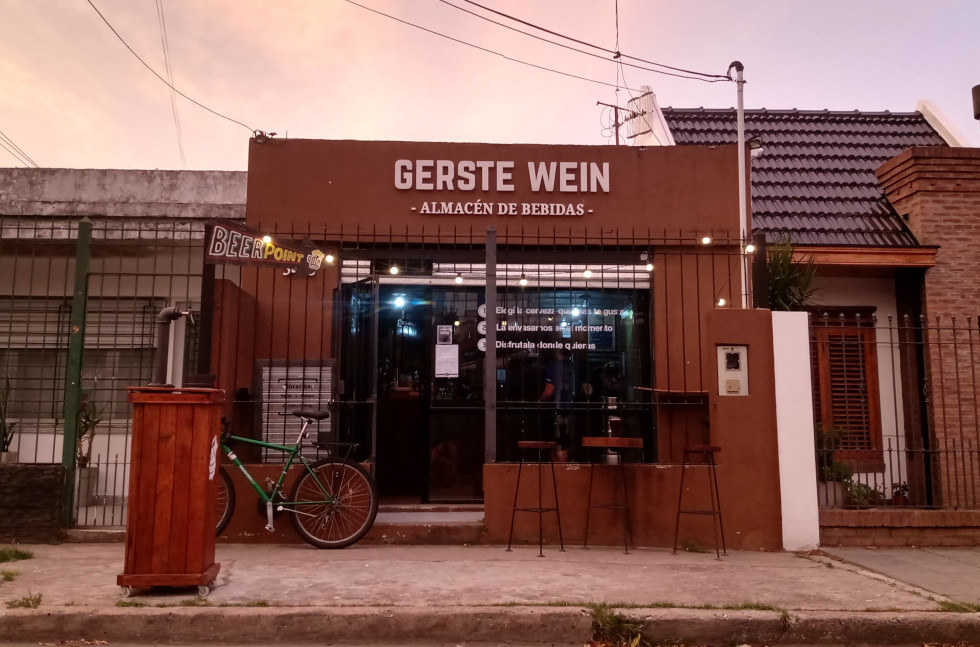
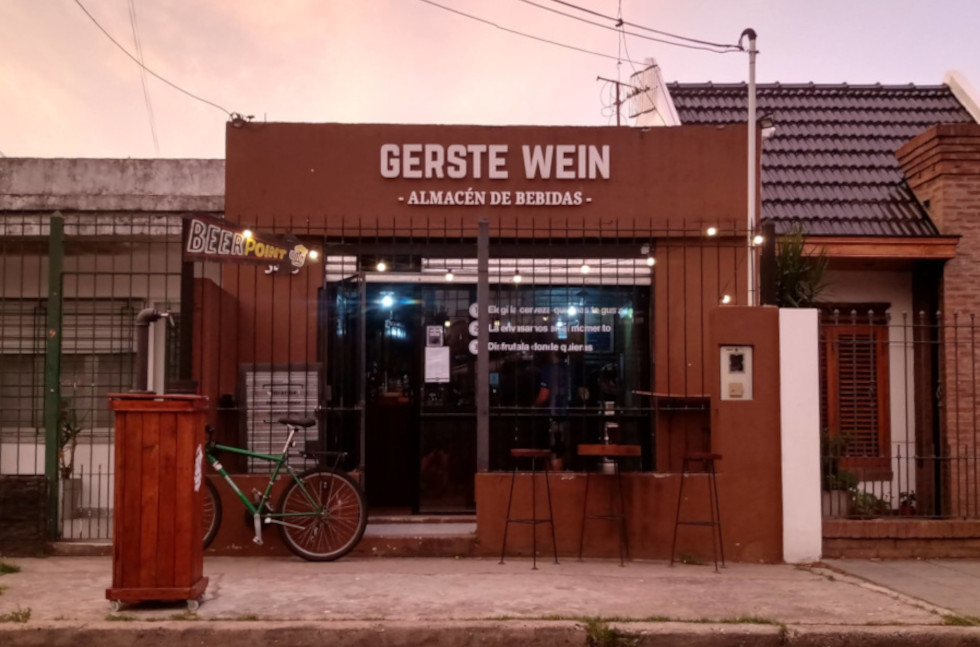
about picture

diff --git a/packages/svelte-kit/src/routes/app/+page.svelte b/packages/svelte-kit/src/routes/app/+page.svelte
@@ -110,10 +110,10 @@
 	// mint function => checks != 0 => checks allowance first => checks if amount >= balance 
     async function getAllowance() {
 		try {
-			console.log(`${$signerAddress}, ${GERSTEWEINCONTRACT}`)
+			//console.log(`${$signerAddress}, ${GERSTEWEINCONTRACT}`)
 	
 			$allowance = await $contracts.USDCContract.allowance($signerAddress, GERSTEWEINCONTRACT);
-			console.log(`allowance es ${$allowance}`)
+			//console.log(`allowance es ${$allowance}`)
 
 			if ($allowance == 0) {
 				allowanceCheck = false;
@@ -174,8 +174,10 @@
 
 	function clearModal() {
 		numberCito = 0;
-		$showMe = false;
 		txHash = undefined;
+		setTimeout(() => {
+			$showMe = false;
+		}, 2500)
 	}
 	/**
 	 * @notice this is a backup just in case
@@ -207,7 +209,6 @@
 
 		await getGWTbalance();
 		await getUSDCbalance();
-		clearModal()
 	}
 
 	async function swapMeSome() {
@@ -244,7 +245,6 @@
 		console.log("esperanding...")
 		await getGWTbalance();
 		await getUSDCbalance();
-		clearModal();
 	}
 	
 	/**
@@ -265,6 +265,8 @@
 							console.log(e);
 							metamaskError = e
 							console.log("CODE: ",metamaskError.code);
+							handleMetamaskError()
+							clearModal()
 						}
 				} else {
 					$showMe = true;
@@ -285,6 +287,8 @@
 						console.log(e);
 						metamaskError = e
 						console.log("CODE: ",metamaskError.code);
+						handleMetamaskError()
+						clearModal();
 					}
 				}
 				
@@ -302,9 +306,12 @@
 				console.log(e);
 				metamaskError = e
 				console.log("CODE: ",metamaskError.code);
-
+				
+				handleMetamaskError()
 				getMetamaskError = metamaskError;
 				weSelling = 0;
+				clearModal()
+
 			}
 		}
 	} 
@@ -338,6 +345,25 @@
     }
 
 	handleAccountsChanged();
+
+	function handleMetamaskError() {
+		// EIP-1193 userRejectedRequest error
+        // If this happens, the user rejected the connection request.
+		console.log("Catching a message: ", metamaskError)
+		try {
+			getWindowEthereum().on('message', (message: ProviderMessage) => {
+				if (message.type === -32603) {
+					console.log('ERRROE');
+				}
+				if (message.type === 4001) {
+					console.log('ERRROE');
+				}
+				console.log("Catching a message later: ", message)
+			});
+		} catch (err) {
+    		console.log("error! la cuenta le pasa algo")
+        }
+      }
 
 </script>
 <TxHashModal {txHash} {allowanceCheck} {getMetamaskError}>

diff --git a/packages/svelte-kit/src/routes/about/+page.svelte b/packages/svelte-kit/src/routes/about/+page.svelte
@@ -8,11 +8,17 @@
 	<div class="text-column">
 		<h1>Acerca de Gerste Wein</h1>
 	</div>
-	<img src="GersteWeinLocal_1000px.jpg" alt="GersteWein al atardecer">
+	<!-- 
+		<img src="GersteWeinLocal_1000px.jpg" alt="GersteWein al atardecer">
+	-->
+	<picture>
+		<source media="(max-width: 600px)" srcset="GersteWeinLocal_600px.jpg" />
+		<source media="(min-width: 999px)" srcset="GersteWeinLocal_1000px.jpg" />
+		<img src="GersteWeinLocal_1000px.jpg" alt="GersteWein al atardecer">
+	</picture>
 	<div class="text-wrapper">
 		<p>Gerste Wein es un almacén de bebidas ubicado en Berazategui.</p>	
 		<p>La idea de este token surgio luego de varias charlas y con la propuesta de
-			<br/>
 			acercar el mundo crypto a la gente y las cervezas.
 		</p>
 		<p>Utilice bajo su responsabilidad, cómo su bebida.
@@ -27,8 +33,8 @@
 		margin-right: 10vw;
 	} */
 
-	img {
-		width: 50%;
+	picture {
+		margin: auto;
 	}
 
 	.text-wrapper {
